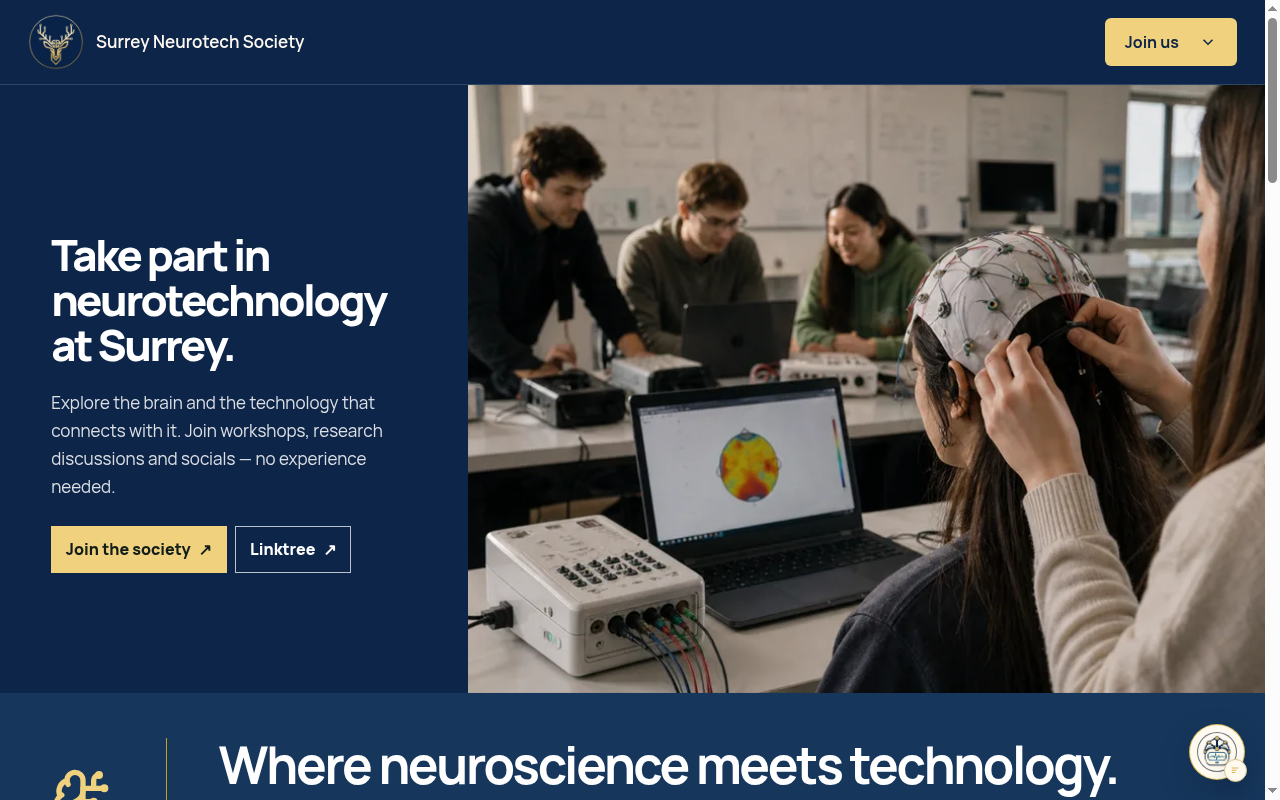
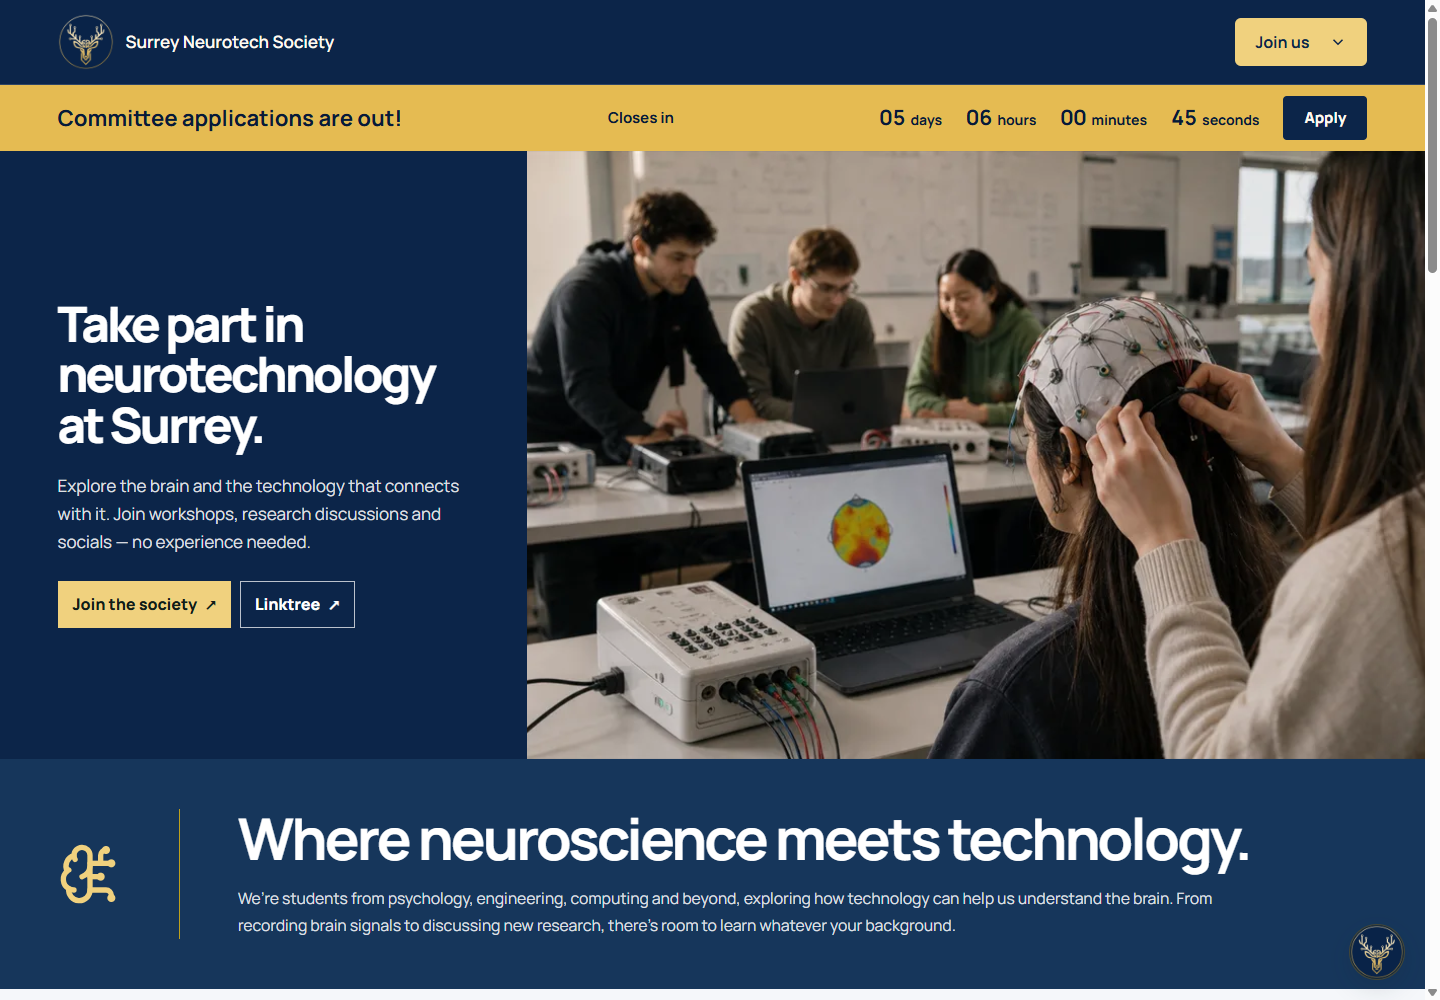
docs: simplify README and refresh live society screenshots

diff --git a/README.md b/README.md
@@ -1,84 +1,63 @@
-<div align="center">
+# Surrey Societies
 
-# surreysocieties
+Three student communities at the University of Surrey, each with a website of its own. Discover what they do, explore events and find your way to get involved.
 
-**Three University of Surrey society sites. One monorepo.**
+[AI Society](https://surreyaisociety.org) · [Business Society](https://surreybusinesssociety.org) · [Neurotech Society](https://surreyneurotechsociety.org)
 
-Astro · Convex · Tailwind · TypeScript
+## AI Society
 
-<p>
-  <a href="https://surreyaisociety.org">AI</a> ·
-  <a href="https://surreybusinesssociety.org">Business</a> ·
-  <a href="https://surreyneurotechsociety.org">Neurotech</a>
-</p>
+A community for students curious about artificial intelligence, machine learning and data science. Learn together, build projects and ask questions, whatever your degree or experience.
 
-</div>
+[Visit the AI site →](https://surreyaisociety.org)
 
-<p align="center">
-  <img src="docs/images/surrey-ai-hero.png" alt="Surrey Artificial Intelligence Society" width="32%" />
-  <img src="docs/images/surrey-business-hero.png" alt="Surrey Business Society" width="32%" />
-  <img src="docs/images/surrey-neurotech-hero.png" alt="Surrey Neurotech Society" width="32%" />
-</p>
+![AI Society homepage with playful lettering, colourful artwork and links to join the society and explore events.](docs/images/surrey-ai-hero.png)
 
-## Sites
+## Business Society
 
-| Society | App | Domain |
-|---------|-----|--------|
-| Surrey Artificial Intelligence Society | `apps/ai` | [surreyaisociety.org](https://surreyaisociety.org) |
-| Surrey Business Society | `apps/business` | [surreybusinesssociety.org](https://surreybusinesssociety.org) |
-| Surrey Neurotech Society | `apps/neurotech` | [surreyneurotechsociety.org](https://surreyneurotechsociety.org) |
+Meet Surrey’s business community through careers, enterprise, networking and practical skills. A place to exchange ideas, meet other students and take your next step.
 
-Shared Convex backend and UI packages. Each society keeps its own brand and production deploy. Public product surface is the three society websites only (no per-site admin CMS).
+[Visit the Business site →](https://surreybusinesssociety.org)
 
-## Stack
+![Business Society homepage featuring its campus artwork and an invitation to meet Surrey’s business community.](docs/images/surrey-business-hero.png)
 
-[Astro](https://astro.build/) (SSR, Node) · [Tailwind CSS v4](https://tailwindcss.com/) · [Convex](https://convex.dev/) · TypeScript · npm workspaces · [Vercel](https://vercel.com/)
+## Neurotech Society
 
-## Setup
+Explore where neuroscience meets technology through workshops, brain–computer interface projects, research discussions and socials. No previous experience needed.
 
-Requires Node.js `>= 22.12.0` and a Convex project.
+[Visit the Neurotech site →](https://surreyneurotechsociety.org)
 
-```bash
-npm install
-cp .env.example .env   # fill values — see comments in the file
-npx convex dev         # link project, generate types, deploy functions
-```
+![Neurotech Society homepage with a laboratory scene, an introduction to neurotechnology and a link to join.](docs/images/surrey-neurotech-hero.png)
 
-Seed societies if needed:
+*Screenshots captured from all three live websites on 9 October 2026.*
 
-```bash
-npx convex run seed:seedSocieties
-```
+## About the project
 
-Never put secrets behind a `PUBLIC_` prefix.
-
-```bash
-npm run dev:ai         # :4321
-npm run dev:business   # :4322
-npm run dev:neurotech  # :4323
-npm run build:all
-npm test
-npm run test:e2e
-```
-
-## Layout
-
-```
-apps/{ai,business,neurotech}   # society sites
-packages/{admin,ui,assistant}  # shared public helpers + UI + assistant
-convex/                        # schema, functions, permissions, seed
-scripts/                       # Vercel build + ops
-e2e/                           # Playwright
-```
-
-`packages/admin` is a public-safe shared helpers package (society config, contact delivery, Convex client helpers). It no longer ships a CMS.
-
-Each contact form opens a prefilled message in the visitor’s email app with one click. The visitor reviews and sends it there; the website never claims to have sent it. A separate `/api/contact` endpoint supports server-side delivery if needed later, but the public form does not call it. The endpoint requires server-only `RESEND_API_KEY` and `CONTACT_FROM_EMAIL`; never use `PUBLIC_` variables for these secrets.
-
-## Deploy
-
-Vercel: from repo root run `node scripts/build-vercel.mjs ai|business|neurotech` → `.vercel/output`. Point each domain at its app and deploy Convex to the same project as `CONVEX_URL`.
+The sites bring each society’s activities, committee and membership links together in one place. Each keeps its own look and personality, with shared foundations that make it easier to maintain all three.
 
 ## Contributing
 
-PRs that improve shared packages, isolation, tests, or deploys are welcome. Don’t invent society content. Prefer `npm test`, `npm run test:e2e`, and the relevant `build:*` before opening a PR.
+Ideas, corrections and improvements are welcome. Keep society information accurate and check changes on both desktop and mobile. The project’s [working guide](AGENTS.md) covers where things live and which checks to run.
+
+<details>
+<summary>For developers: run the sites locally</summary>
+
+Use Node.js 22.12 or newer. Install dependencies, copy [.env.example](.env.example) to `.env` and configure your own Convex project:
+
+```sh
+npm install
+npx convex dev
+```
+
+Start the site you want to work on, then open the address printed in the terminal:
+
+```sh
+npm run dev:ai
+npm run dev:business
+npm run dev:neurotech
+```
+
+The sites are in `apps/ai`, `apps/business` and `apps/neurotech`. They share UI packages and a Convex backend, and are published separately on Vercel. Keep credentials private; never use a `PUBLIC_` prefix for secrets.
+
+Before submitting changes, run the relevant build and checks described in [AGENTS.md](AGENTS.md).
+
+</details>
